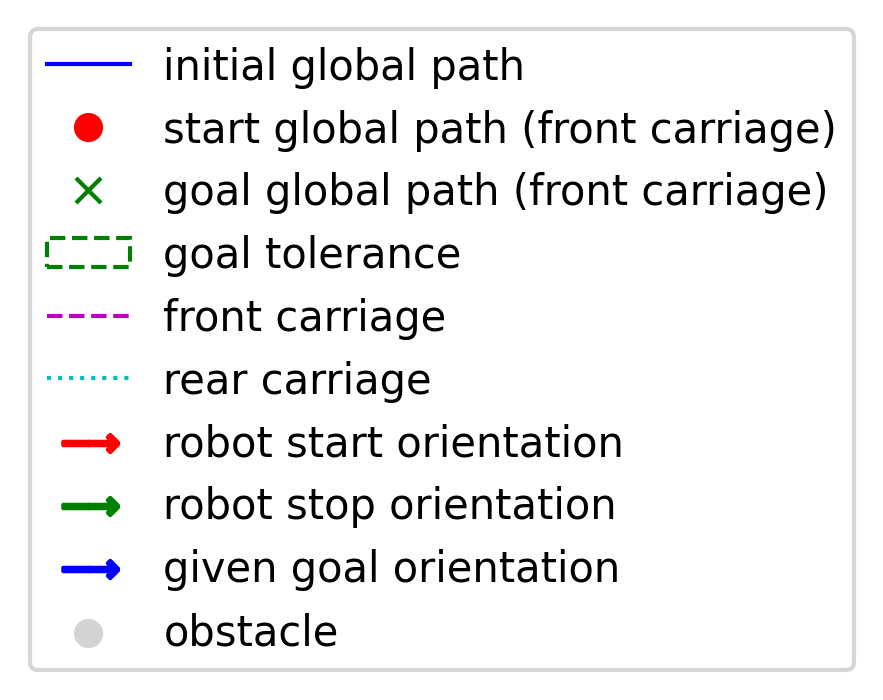
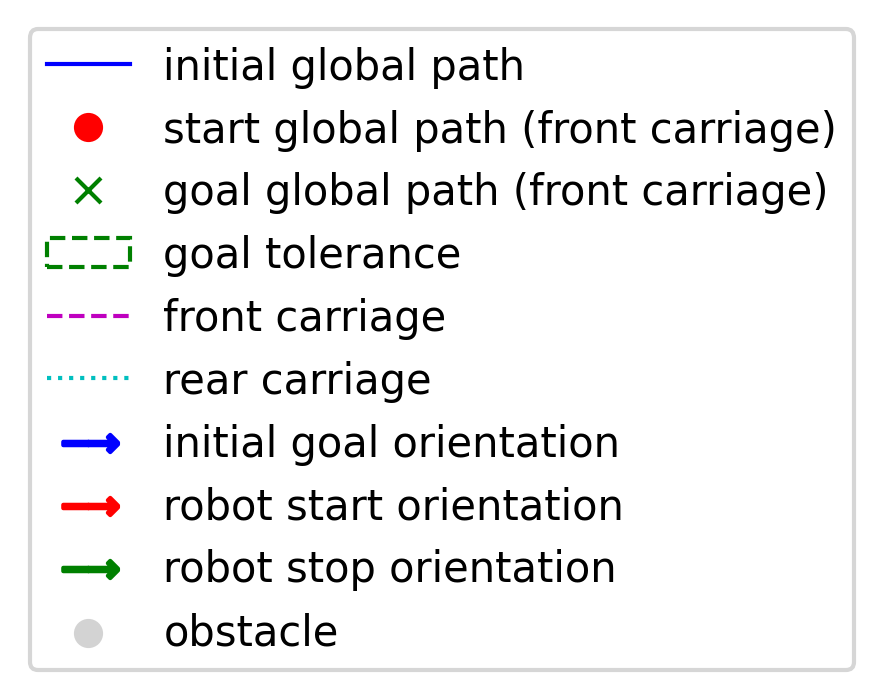
During tests modified parameters and saved figures

diff --git a/plot_navigation/scripts/plot_navigation.py b/plot_navigation/scripts/plot_navigation.py
@@ -129,9 +129,9 @@ class PlotNavigation():
             self.ax_plot.quiver(pose_end_f[0], pose_end_f[1], pose_end_f[2], pose_end_f[3], width=0.003, headwidth=6, color='g')
             self.ax_plot.quiver(pose_end_r[0], pose_end_r[1], pose_end_r[2], pose_end_r[3], width=0.003, headwidth=6, color='g')
             # add dummy point to create legend for robot orientation 
+            self.ax_plot.scatter([], [], c='blue', marker=u"$\u2212\!\u2192$", s=200, label='initial goal orientation')
             self.ax_plot.scatter([], [], c='red', marker=u"$\u2212\!\u2192$", s=200, label='robot start orientation')
             self.ax_plot.scatter([], [], c='green', marker=u"$\u2212\!\u2192$", s=200, label='robot stop orientation')
-            self.ax_plot.scatter([], [], c='blue', marker=u"$\u2212\!\u2192$", s=200, label='given goal orientation')
 
     def plot_obstacles(self):
         if self.map_available:
@@ -186,20 +186,22 @@ class PlotNavigation():
             plt.draw()
             plt.pause(0.5)
             rate.sleep() 
-
-    def export_legend(self, legend, filename="legend.png", expand=[-5,-5,5,5]):
-        fig  = legend.figure
-        fig.canvas.draw()
-        bbox  = legend.get_window_extent()
-        bbox = bbox.from_extents(*(bbox.extents + np.array(expand)))
-        bbox = bbox.transformed(fig.dpi_scale_trans.inverted())
-        fig.savefig(filename, dpi=300, bbox_inches=bbox)
             
     def save_plot(self):
         self.ax_plot.clear()
         self.ax_plot.autoscale(enable=False)
-        self.ax_plot.set_xlim([-1.0, 3.0])
-        self.ax_plot.set_ylim([-0.5, 0.5])            
+        # row entry
+        # self.ax_plot.set_xlim([-1.5, 2.5])
+        # self.ax_plot.set_ylim([-0.4, 0.6]) 
+        # 
+        # row exit       
+        # self.ax_plot.set_xlim([-0.5, 2.0])
+        # self.ax_plot.set_ylim([-0.5, 1.5]) 
+        # 
+        # row uturn second row
+        self.ax_plot.set_xlim([-1.5, 1.5])
+        self.ax_plot.set_ylim([-0.5, 2.0])
+
         self.plot_global_path()
         self.plot_robot_pose()
         self.plot_obstacles()   

diff --git a/send_simple_goal/src/send_simple_goal.cpp b/send_simple_goal/src/send_simple_goal.cpp
@@ -18,6 +18,7 @@ int main(int argc, char** argv){
   nh.getParam("goal_pos_y", goal_pos_y);
   nh.getParam("goal_rot_z", goal_rot_z);
   nh.getParam("ref_frame_id", ref_frame_id);
+  goal_rot_z = goal_rot_z * 3.1415 / 180.0;
 
   //tell the action client that we want to spin a thread by default
   MoveBaseClient ac("move_base", true);
